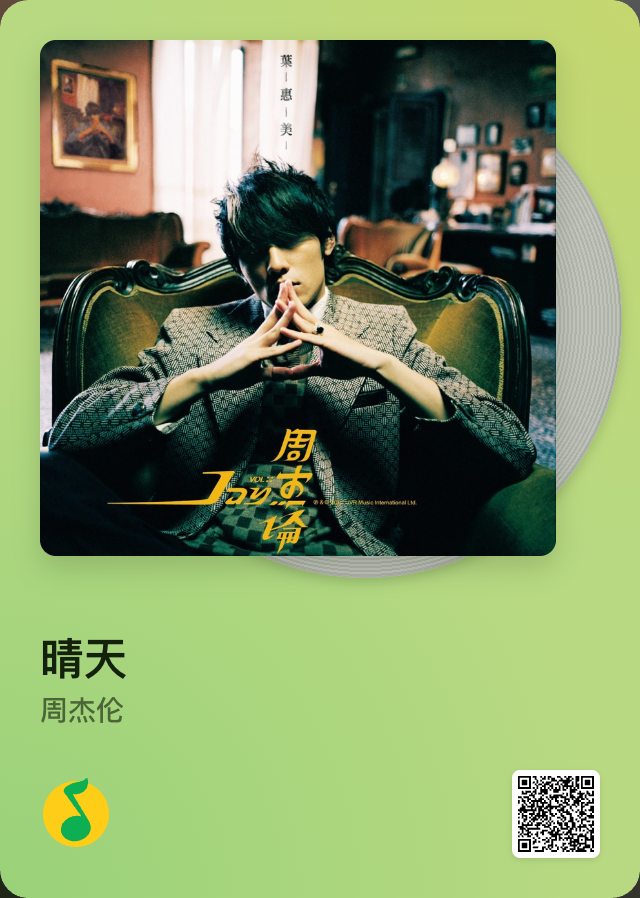
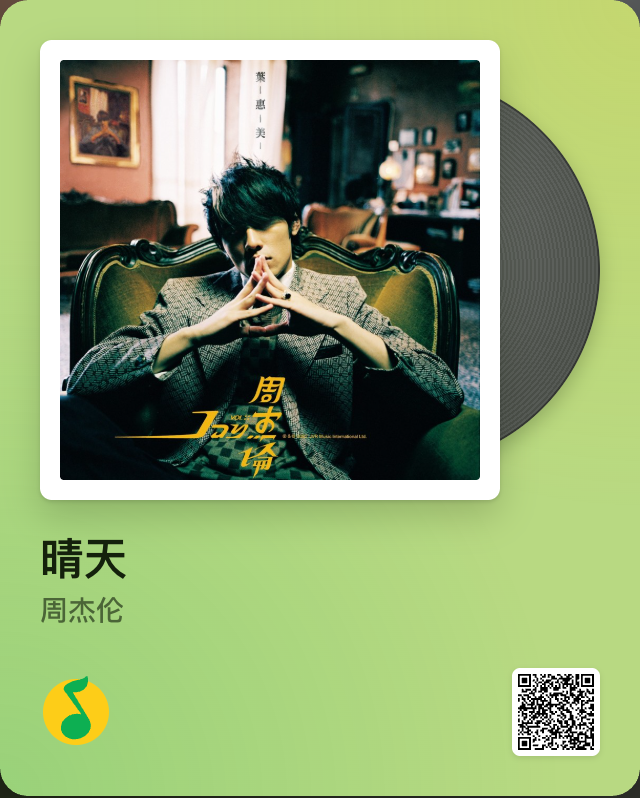
fix(qq-card): correct sleeve+disc layout to match QQ's official album view
Previous version had the disc tucked in the bottom-right corner with
no sleeve around the cover — neither right. The reference image is
a white square sleeve holding the cover art, with a dark CD slipping
out vertically-centered from behind the sleeve's right edge.

Now:
- Sleeve takes 82% of the stage width, square, white with 10px inner
  padding, soft drop shadow.
- Disc is 70% wide, aspect 1:1, absolutely positioned at right:0 with
  translateY(-50%) for vertical center. ~18% of the stage width (≈26%
  of the disc) shows past the sleeve — same ratio as the reference.
- Disc grey darkened to #5A5E59 → #3F4340 with concentric groove
  pattern; hub picks up the card's grass color.

Lyrics block:
- Drop background panel + big quote glyph + text-indent trick.
- Now reads like a printed liner-notes section: short brand-green
  3px marker on top-left, thin green hairline divider across, body
  set in Songti / Source Han Serif. Sufficiently distinct from
  Spotify's green-rail panel.

diff --git a/src/components/QqMusicCard.module.css b/src/components/QqMusicCard.module.css
@@ -20,25 +20,31 @@
   box-shadow: 0 calc(20px * var(--s, 1)) calc(48px * var(--s, 1)) rgba(20, 35, 10, 0.20);
 }
 
-/* ─── Cover + peeking disc ─────────────────────────────────────────── */
+/* ─── Cover sleeve + peeking disc ──────────────────────────────────── */
 
-/* Stage holds the cover and the disc that sticks out behind it. */
+/* Stage holds the white-bordered sleeve and the dark disc behind it.
+   Layout mirrors QQ Music's official album view: square white sleeve
+   on the left, CD slipping out vertically-centered from behind the
+   sleeve's right edge. Stage height is driven by the sleeve. */
 .coverStage {
   position: relative;
   width: 100%;
-  aspect-ratio: 1 / 1;
 }
 
+/* White paper sleeve — wraps the cover art with a small white border.
+   Width is 82% of the stage so the remaining 18% on the right gives
+   the disc a place to slip out from. Aspect 1:1 keeps it square. */
 .coverWrap {
   position: relative;
-  width: 92%;
-  height: 92%;
-  border-radius: calc(8px * var(--s, 1));
-  overflow: hidden;
-  background: rgba(0, 0, 0, 0.04);
+  width: 82%;
+  aspect-ratio: 1 / 1;
+  padding: calc(10px * var(--s, 1));
+  background: #FFFFFF;
+  border-radius: calc(6px * var(--s, 1));
+  box-sizing: border-box;
   box-shadow:
-    inset 0 0 0 calc(1px * var(--s, 1)) rgba(0, 0, 0, 0.06),
-    0 calc(6px * var(--s, 1)) calc(14px * var(--s, 1)) rgba(20, 35, 10, 0.18);
+    0 calc(8px * var(--s, 1)) calc(18px * var(--s, 1)) rgba(20, 35, 10, 0.20),
+    0 calc(1px * var(--s, 1)) calc(2px * var(--s, 1)) rgba(0, 0, 0, 0.12);
   z-index: 2;
 }
 
@@ -47,35 +53,37 @@
   height: 100%;
   object-fit: cover;
   display: block;
+  border-radius: calc(2px * var(--s, 1));
 }
 
-/* The disc — circular, slightly larger than the cover so a sliver shows
-   on the right edge. Two concentric gradients fake the polished CD
-   surface; the dark center hub is a separate element for crispness.
-   z-index keeps it behind the cover (which has z:2). */
+/* The CD — circular, dark grey, vertically centered against the sleeve
+   and pinned to the stage's right edge. With sleeve at 82% and disc at
+   70%, the disc sits on stage[30%..100%] and the sleeve on stage[0..82%],
+   so ~18% of the stage width (≈26% of the disc diameter) is visible. */
 .disc {
   position: absolute;
-  top: 4%;
-  left: 12%;
-  width: 92%;
-  height: 92%;
+  top: 50%;
+  right: 0;
+  transform: translateY(-50%);
+  width: 70%;
+  aspect-ratio: 1 / 1;
   border-radius: 50%;
   background:
-    /* Specular highlight */
-    radial-gradient(ellipse 70% 90% at 60% 40%, rgba(255, 255, 255, 0.18) 0%, transparent 60%),
-    /* Concentric groove rings */
+    /* Soft specular highlight */
+    radial-gradient(ellipse 70% 90% at 65% 35%, rgba(255, 255, 255, 0.10) 0%, transparent 55%),
+    /* Concentric grooves */
     repeating-radial-gradient(
       circle at 50% 50%,
-      #BFC2BA 0,
-      #BFC2BA 1px,
-      #ADB2A6 1px,
-      #ADB2A6 2px
+      #565A55 0,
+      #565A55 1px,
+      #4A4E48 1px,
+      #4A4E48 2px
     ),
-    /* Base CD tone — neutral cool grey, slightly desaturated */
-    linear-gradient(135deg, #C2C6BD 0%, #9EA499 100%);
+    /* Base disc tone — dark cool grey, like a black CD */
+    linear-gradient(135deg, #5A5E59 0%, #3F4340 100%);
   box-shadow:
-    0 calc(2px * var(--s, 1)) calc(6px * var(--s, 1)) rgba(20, 35, 10, 0.18),
-    inset 0 0 0 calc(1px * var(--s, 1)) rgba(0, 0, 0, 0.08);
+    0 calc(4px * var(--s, 1)) calc(10px * var(--s, 1)) rgba(20, 35, 10, 0.25),
+    inset 0 0 0 calc(1px * var(--s, 1)) rgba(0, 0, 0, 0.30);
   z-index: 1;
 }
 
@@ -83,14 +91,14 @@
   position: absolute;
   top: 50%;
   left: 50%;
-  width: 18%;
-  height: 18%;
+  width: 14%;
+  height: 14%;
   transform: translate(-50%, -50%);
   border-radius: 50%;
-  background: #DDE6CC;
+  background: #B8D982;
   box-shadow:
-    inset 0 0 0 calc(1px * var(--s, 1)) rgba(0, 0, 0, 0.10),
-    0 calc(1px * var(--s, 1)) calc(2px * var(--s, 1)) rgba(0, 0, 0, 0.08);
+    inset 0 0 0 calc(1px * var(--s, 1)) rgba(0, 0, 0, 0.25),
+    0 calc(1px * var(--s, 1)) calc(2px * var(--s, 1)) rgba(0, 0, 0, 0.20);
 }
 
 /* ─── Song info ────────────────────────────────────────────────────── */
@@ -128,38 +136,37 @@
 
 /* ─── Lyrics block ─────────────────────────────────────────────────── */
 
-/* No left rail (Spotify uses one — too similar). Lyrics live on a soft
-   off-white "manuscript paper" panel with quote-mark glyphs and looser
-   line-height than the other cards. */
+/* No background panel, no left rail (Spotify already owns those). Just
+   a thin brand-green horizontal divider on top with a short thicker
+   marker on its left end — like a section heading in a printed booklet.
+   Type uses a Chinese serif (Songti) to lean into the "album liner
+   notes" feel and step further away from Spotify's sans-serif rail. */
 .lyrics {
   position: relative;
   display: flex;
   flex-direction: column;
-  gap: calc(8px * var(--s, 1));
-  padding: calc(18px * var(--s, 1)) calc(18px * var(--s, 1)) calc(16px * var(--s, 1));
-  background: rgba(255, 255, 255, 0.55);
-  border-radius: calc(6px * var(--s, 1));
+  gap: calc(7px * var(--s, 1));
+  padding-top: calc(14px * var(--s, 1));
+  border-top: calc(1px * var(--s, 1)) solid rgba(13, 175, 82, 0.30);
 }
 
-/* Big opening quote in the top-left, brand green, to mark this as a
-   lyric quote rather than a generic info block. */
 .lyrics::before {
-  content: '\201C';
+  content: '';
   position: absolute;
-  top: calc(-4px * var(--s, 1));
-  left: calc(8px * var(--s, 1));
-  font-family: 'Georgia', 'Times New Roman', serif;
-  font-size: calc(36px * var(--s, 1));
-  font-weight: 700;
-  color: rgba(13, 175, 82, 0.55);
-  line-height: 1;
-  pointer-events: none;
+  top: calc(-2px * var(--s, 1));
+  left: 0;
+  width: calc(36px * var(--s, 1));
+  height: calc(3px * var(--s, 1));
+  background: #0DAF52;
+  border-radius: calc(1.5px * var(--s, 1));
 }
 
 .lyricLine {
+  font-family: 'Songti SC', 'STSong', 'Source Han Serif SC', 'Noto Serif CJK SC', Georgia, serif;
   font-size: calc(13.5px * var(--s, 1));
   font-weight: 500;
-  line-height: 1.6;
+  line-height: 1.65;
+  letter-spacing: calc(0.5px * var(--s, 1));
   color: #1A2710;
   margin: 0;
   display: -webkit-box;
@@ -167,11 +174,6 @@
   -webkit-box-orient: vertical;
   overflow: hidden;
   word-break: break-word;
-  text-indent: calc(8px * var(--s, 1));
-}
-
-.lyricLine:first-child {
-  text-indent: calc(16px * var(--s, 1));
 }
 
 /* ─── Foot: brand + QR ─────────────────────────────────────────────── */
